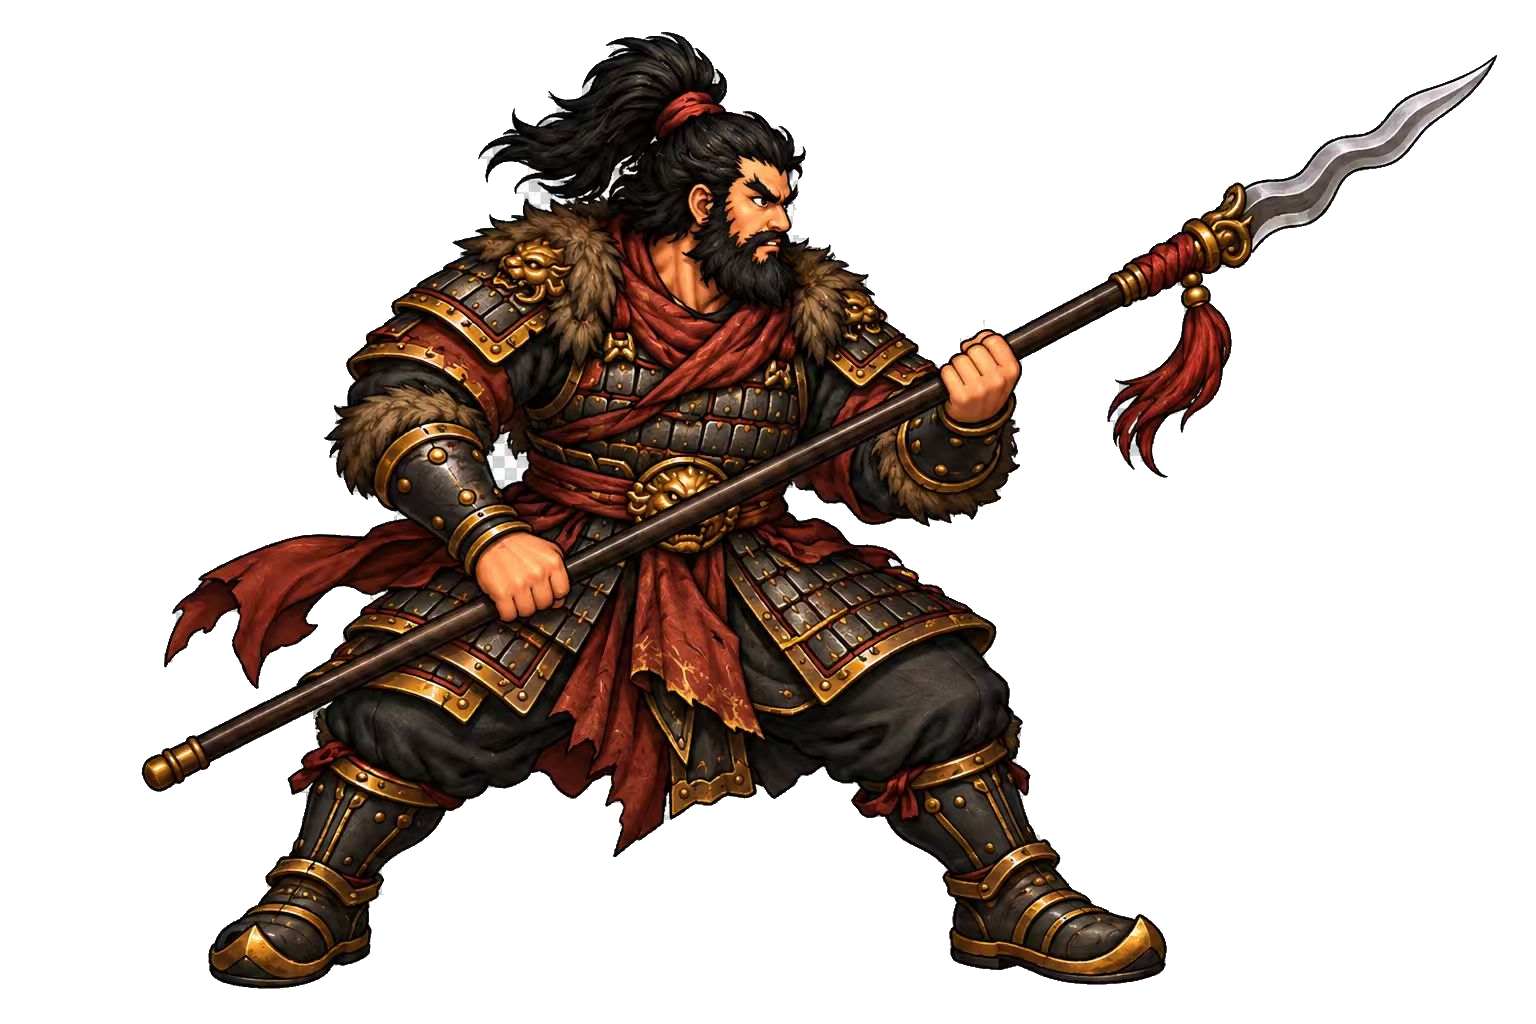
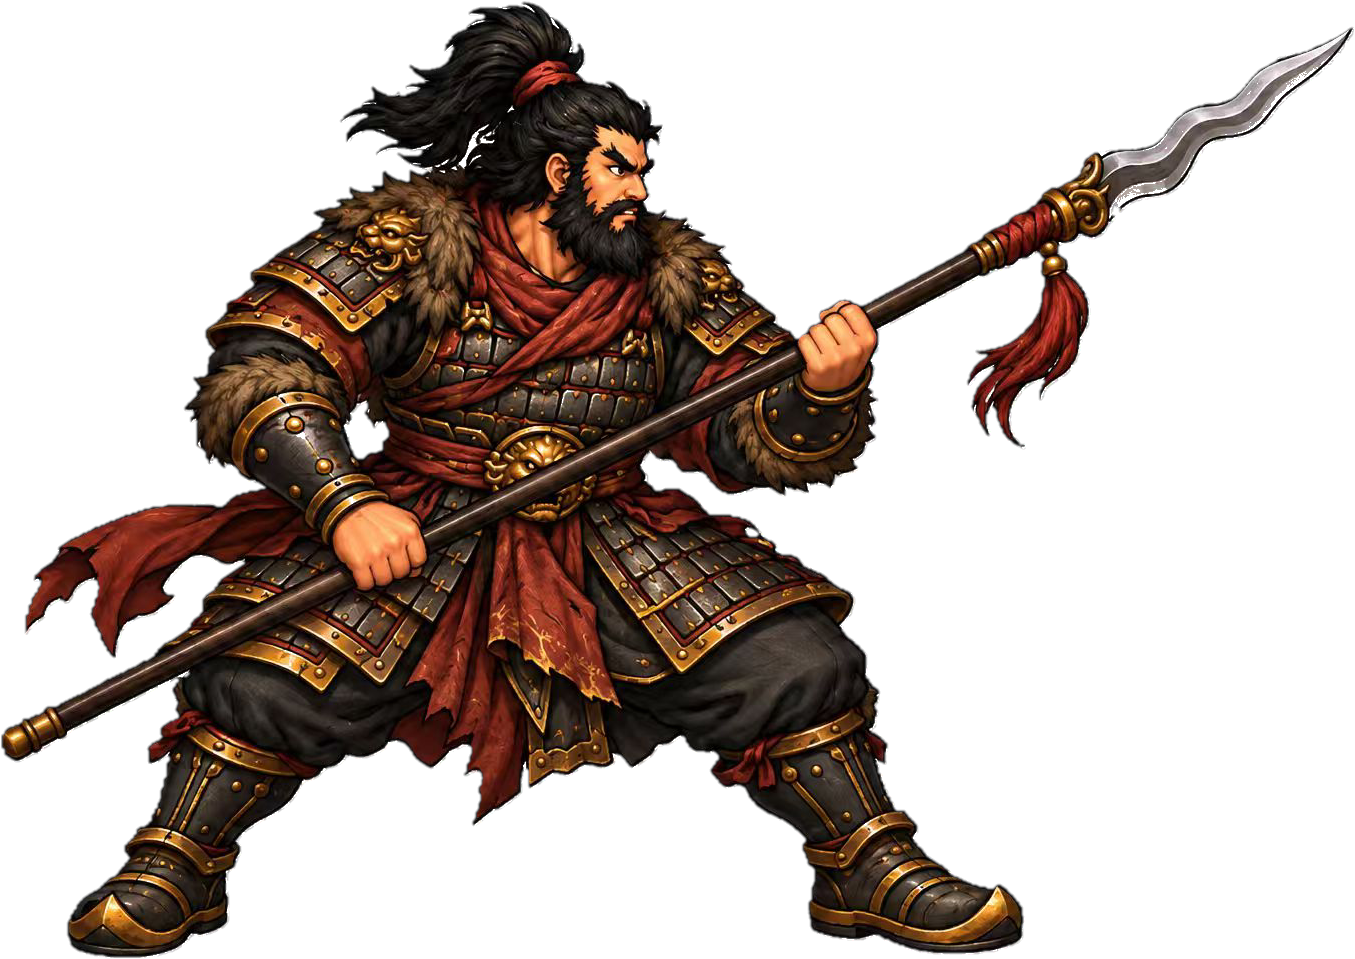
장비 일기토 그림을 사용자가 다시 누끼딴 버전으로 교체 (흰 테두리/얼룩 제거)
사용자가 준 새 PNG는 안티앨리어싱이 훨씬 매끄러웠지만, 두 가지 문제가
있었다:
1. eXIf 청크의 CRC 체크섬이 깨져 있어 PIL 등 엄격한 PNG 파서가 파일
   자체를 열지 못했다 - 손상된 청크만 제거해 복구.
2. 어두운/원색 배경에 올려보면 가장자리에 흰색 테두리(원본 매트had
   흰 배경 성분이 섞여든 것)가 남아있었고, 꽁지머리 쪽에는 반투명이
   아니라 완전 불투명한 흰색 얼룩까지 있었다(원본 사진과 대조해
   확인 - 원본엔 없던, 배경 제거 도구가 만든 결함).

반투명 경계 픽셀만 흰 배경 기준으로 색 디컨테미네이션(흰색 성분
역산 제거)해서 테두리를 없앴고, 기존에 뚫려 있던 배경 영역을
시드point로 삼아 얼룩 부분까지 플러드필로 이어 지웠으며, 마지막으로
작은 흰 반점(고립된 400px 이하 덩어리)까지 정리했다. 이미지 크기가
달라져(1355x959) CSS의 캐릭터별 aspect-ratio 규칙도 새로 맞췄다.

magenta/파랑/어두운 배경 등 여러 색에 합성해 흰 번짐이 실제로
사라졌는지 확인했고, 실제 게임 일기토 화면(우금과 대치)에서도
스크린샷으로 확인했다. 기존 회귀 테스트도 재통과.

diff --git a/css/style.css b/css/style.css
@@ -859,7 +859,8 @@ h1,h2{ font-family:"Song Myung",serif; margin:0 0 8px; }
 .duel-actor.raster-art.player .duel-body{transform:none}
 .duel-actor.enemy .duel-glyph,.duel-actor.enemy .duel-actor-label{transform:none}
 .duel-actor[data-id="gwanwoo"]{aspect-ratio:1312/1199}
-.duel-actor[data-id="hwaung"],.duel-actor[data-id="yeopo"],.duel-actor[data-id="jangbi"]{aspect-ratio:1536/1024}
+.duel-actor[data-id="hwaung"],.duel-actor[data-id="yeopo"]{aspect-ratio:1536/1024}
+.duel-actor[data-id="jangbi"]{aspect-ratio:1355/959}
 /* 일반장수 그림은 세로로 좁고 긴 캔버스(2:3)라 다른 캐릭터들과 같은 높이로
    두면 실루엣이 좁아 보여 상대적으로 왜소해 보인다. contain으로 잘리는 부분
    없이 다 보여주면서도(잘림 방지) 체급을 맞추기 위해 박스 자체를 더 키운다 -
